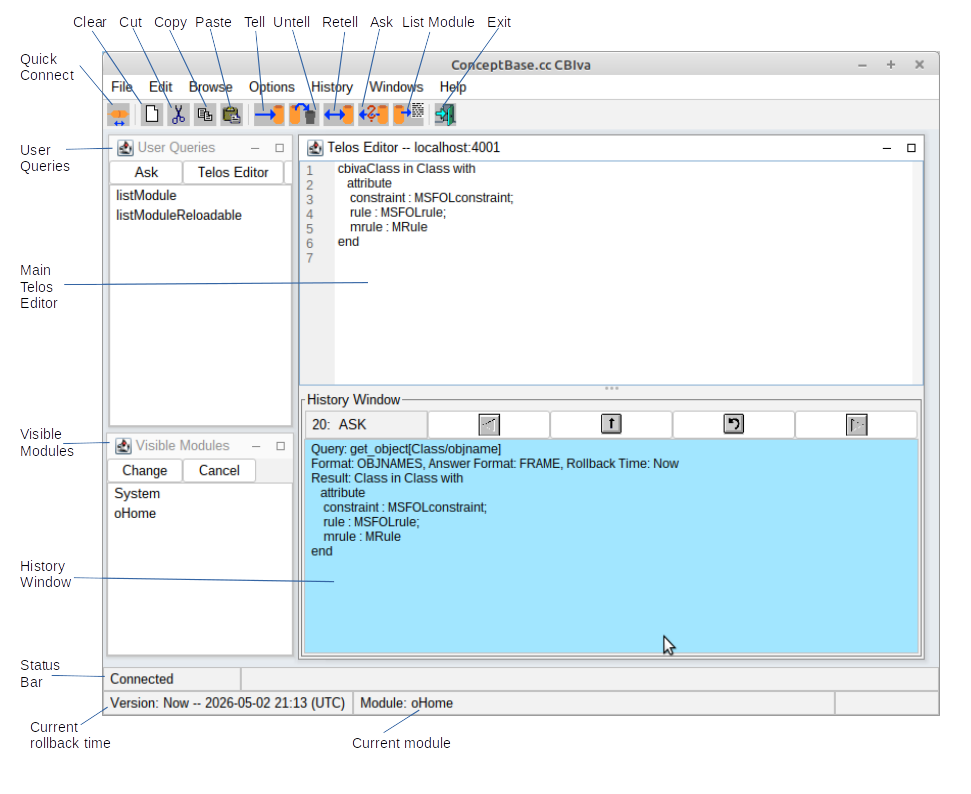
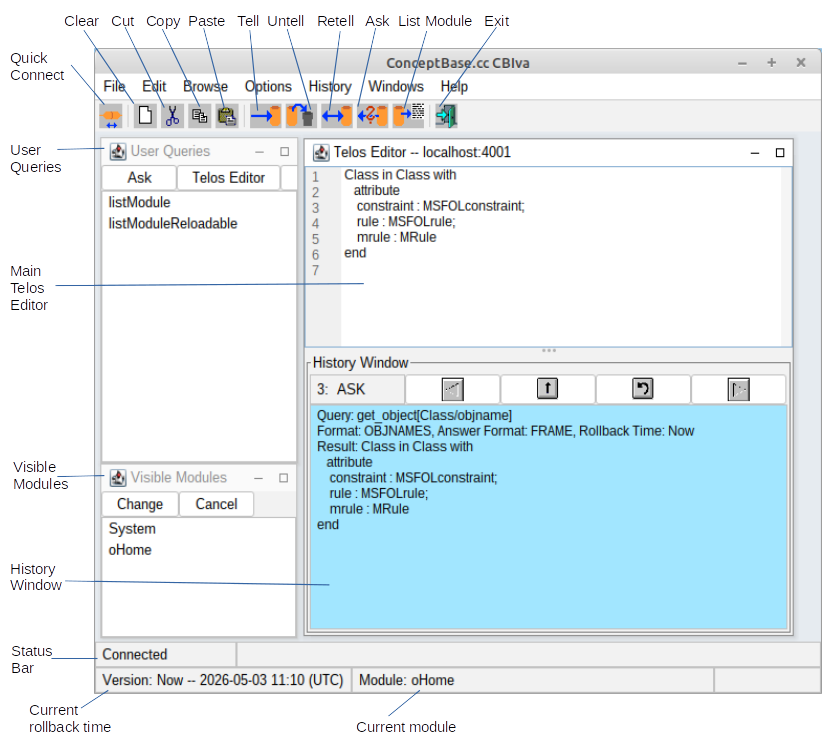
more improvements on user manual (cbivamain image)

Changed region(s): [[0.0, 0.0, 1.0, 0.9879], [0.0, 0.3396, 0.0625, 0.4322]]

diff --git a/ProductPOOL/doc/UserManual/CBiva.tex b/ProductPOOL/doc/UserManual/CBiva.tex
@@ -42,10 +42,7 @@ You can start the CBIva workbench by the command
 
 The command will start a script file with the same name.
 We assume that
- the installation directory of ConceptBase.cc\footnote{In rare circumstances, you may have to
-edit the script files cbiva, cbgraph and cbshell, so that the correct Java Virtual Machine is used and the environment
-variable {\tt CB\_HOME} points to the installation directory. See Installation Guide 
-in the CB-Forum for details.} is added to the search path
+ the installation directory of ConceptBase.cc is added to the search path
 of executable programs. After a few seconds, the CBIva main
 window should pop up. CBIva will attempt to connect to a CBserver on localhost or to
 a public CBserver (if configured, see \ref{sec:pubcbserver}).
@@ -53,7 +50,7 @@ Figure \ref{fig:cbivamain} shows the main window connected
 to a CBserver and gives a short description of the buttons in the tool bar.
 
 
-\cbfigure{cbivamain}{12cm}{Main Window of CBIva}
+\cbfigure{cbivamain}{0.9\textwidth}{Main Window of CBIva}
 
 The main window consists of a menu bar, a tool bar with a button panel, the area for
 subwindows and a status bar. The first sub window (Telos editor) contains the history window,